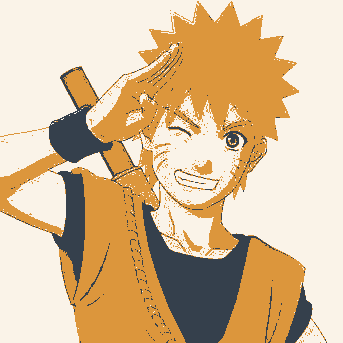
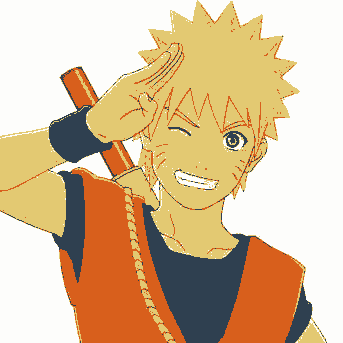
a

diff --git a/AutocolorPaletteWithKmeans.py b/AutocolorPaletteWithKmeans.py
@@ -36,7 +36,7 @@ for f in listdir(dirEntrada):
 from sklearn.cluster import KMeans
 
 # número de cores de cada imagem
-numero_cores = [3, 3, 4]
+numero_cores = [4, 3, 4]
 
 
 
